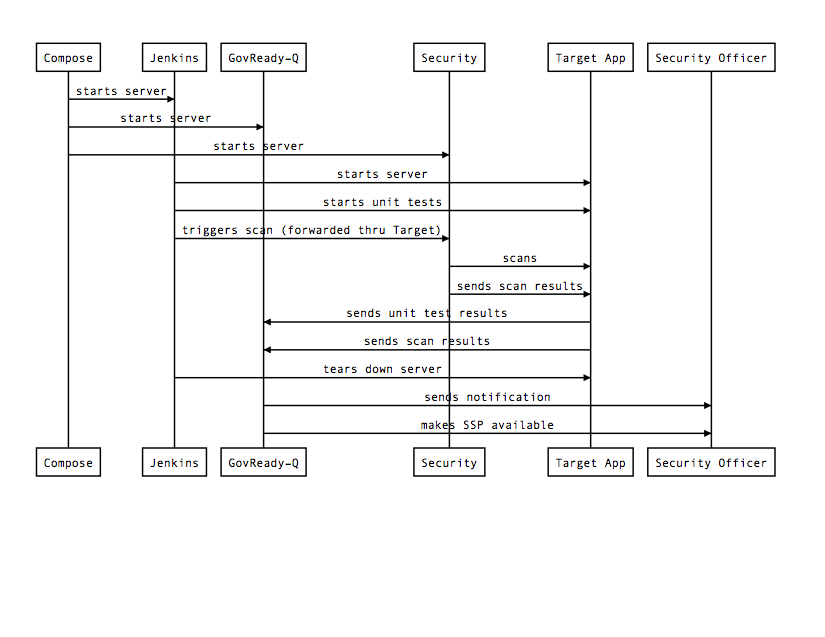
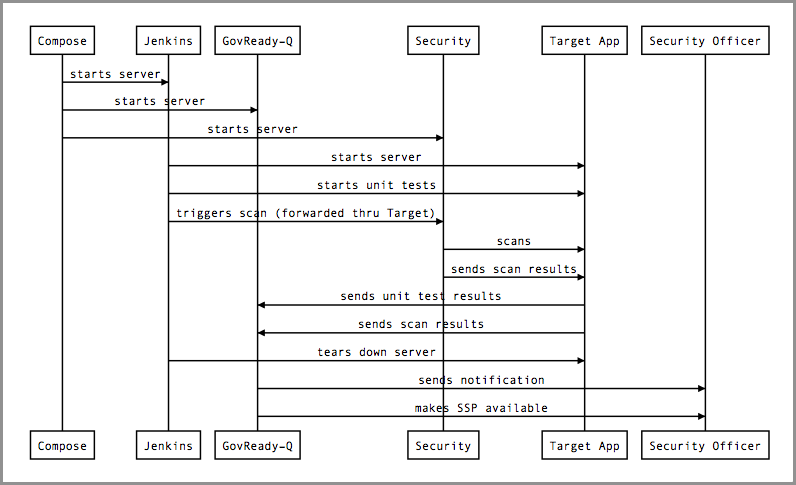
update README.md to use new sequence diagram

Changed region(s): [[0.0, 0.0, 1.0, 1.0]]

diff --git a/README.md b/README.md
@@ -24,7 +24,7 @@ This proof-of-concept demonstrates how security checks, compliance testing, and 
 
 Once set up, the pipeline's Build Server (Jenkins) will assemble a Target App, tell a Security Server (OpenSCAP) to scan the Target App and its OS, then tell a Compliance Server (GovReady) to check compliance and update a System Security Plan.
 
-![sequence](docs/cak-sequence-20171206-001.png)
+![sequence](docs/awesome-ato-sequence.png)
 
 The pipeline is simplifed to run on a single workstation playing the role of both Pipeline Environment (Docker Host) and DevSecOps Workstations. Instructions refer to the Pipeline Environment and DevSecOps Workstation separately in order to communicate what is happening functionally, even though they are implemented by the same workstation in this demonstration.
 
